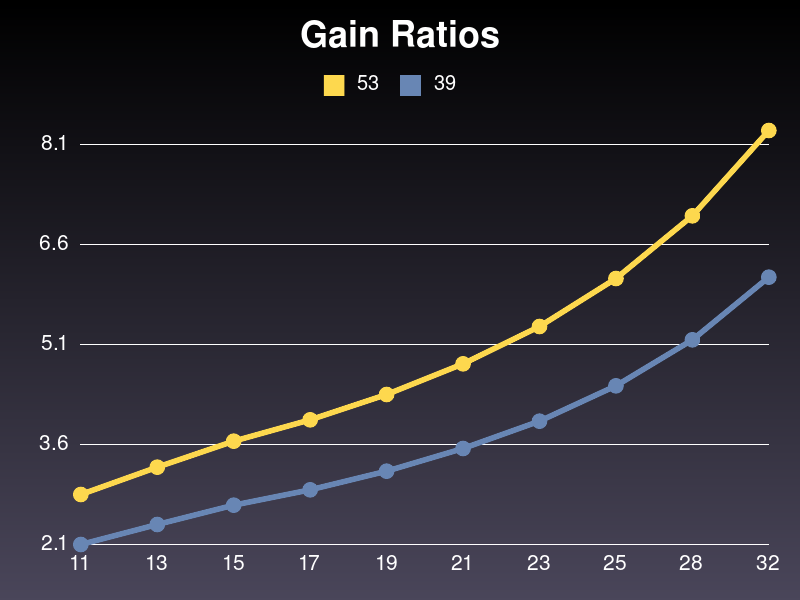
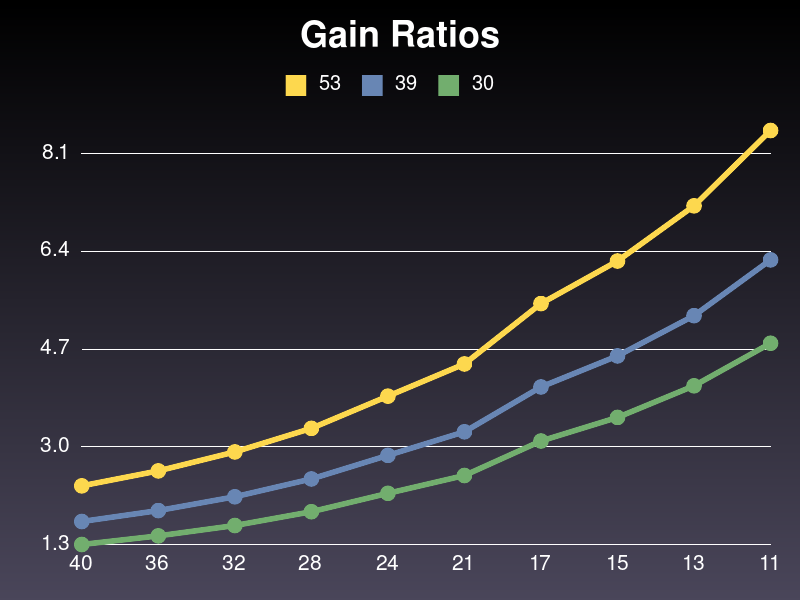
Sinatra app working

diff --git a/app.rb b/app.rb
@@ -10,6 +10,10 @@ class GearRatioCalculatorApp < Sinatra::Base
 
   get '/' do
     p params
+    @chainring_sizes = ""
+    @cog_sizes = ""
+    @crank_length = ""
+    @wheel_circumference = ""
 
     unless params.empty?
       @calculator = GearRatio::Calculator.new(chainring_sizes: params[:chainring_sizes],
@@ -17,11 +21,16 @@ class GearRatioCalculatorApp < Sinatra::Base
         crank_length: params[:crank_length],
         wheel_circumference: params[:wheel_circumference] )
 
+      @chainring_sizes = @calculator.chainring_sizes.join(",")
+      @cog_sizes = @calculator.cog_sizes.join(",")
+      @crank_length = @calculator.crank_length
+      @wheel_circumference = @calculator.wheel_circumference
+
       @graph = GearRatio::Graph.new(@calculator)
       @graph.gain_ratio_line_chart
     end
 
-    send_file File.join(settings.public_folder, 'index.html')
+    erb :index
   end
 
 end

diff --git a/lib/graph.rb b/lib/graph.rb
@@ -11,7 +11,7 @@ class GearRatio
       g = Gruff::Line.new
       g.title = 'Gain Ratios'
       hsh = {}
-      @calculator.cog_sizes.each_with_index do |c, idx|
+      @calculator.cog_sizes.reverse.each_with_index do |c, idx|
         hsh[idx] = c.to_s
       end
       g.labels = hsh
